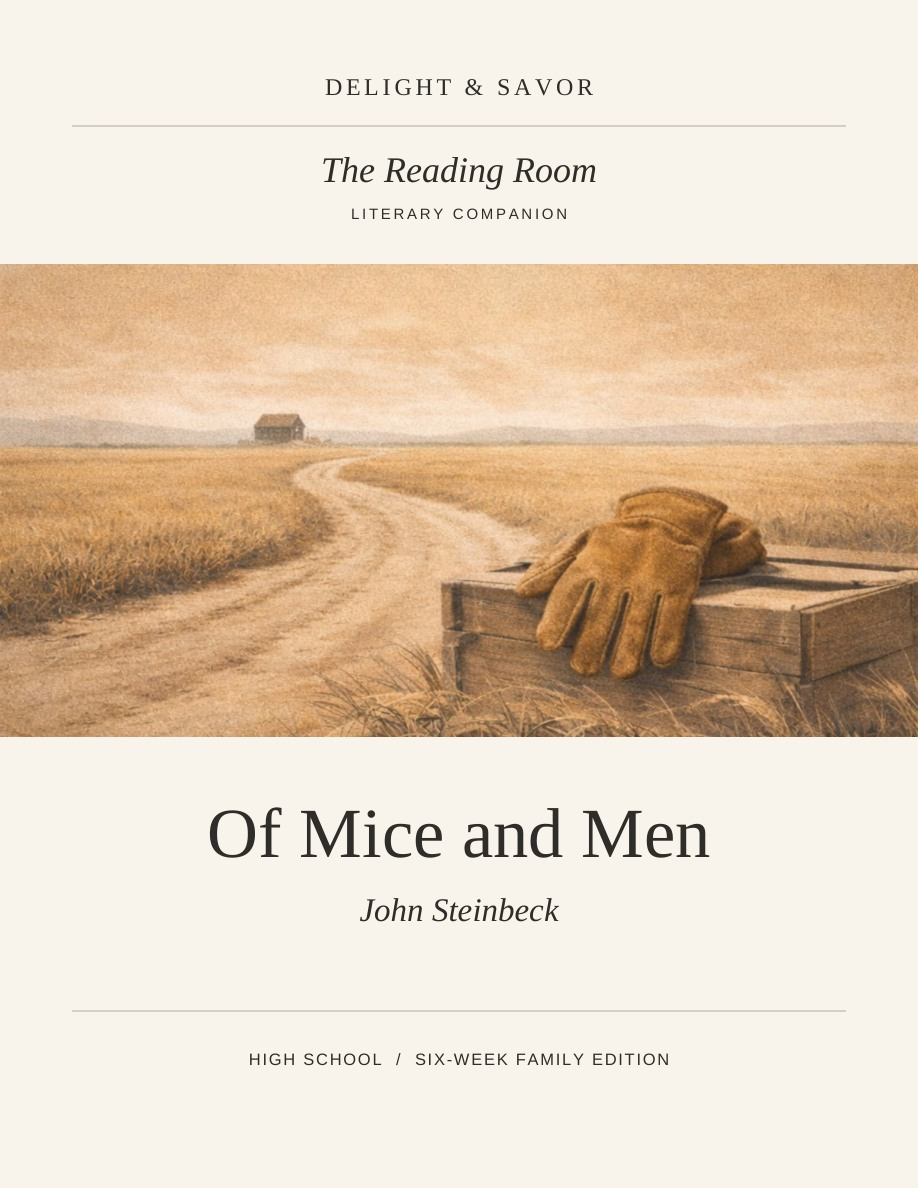
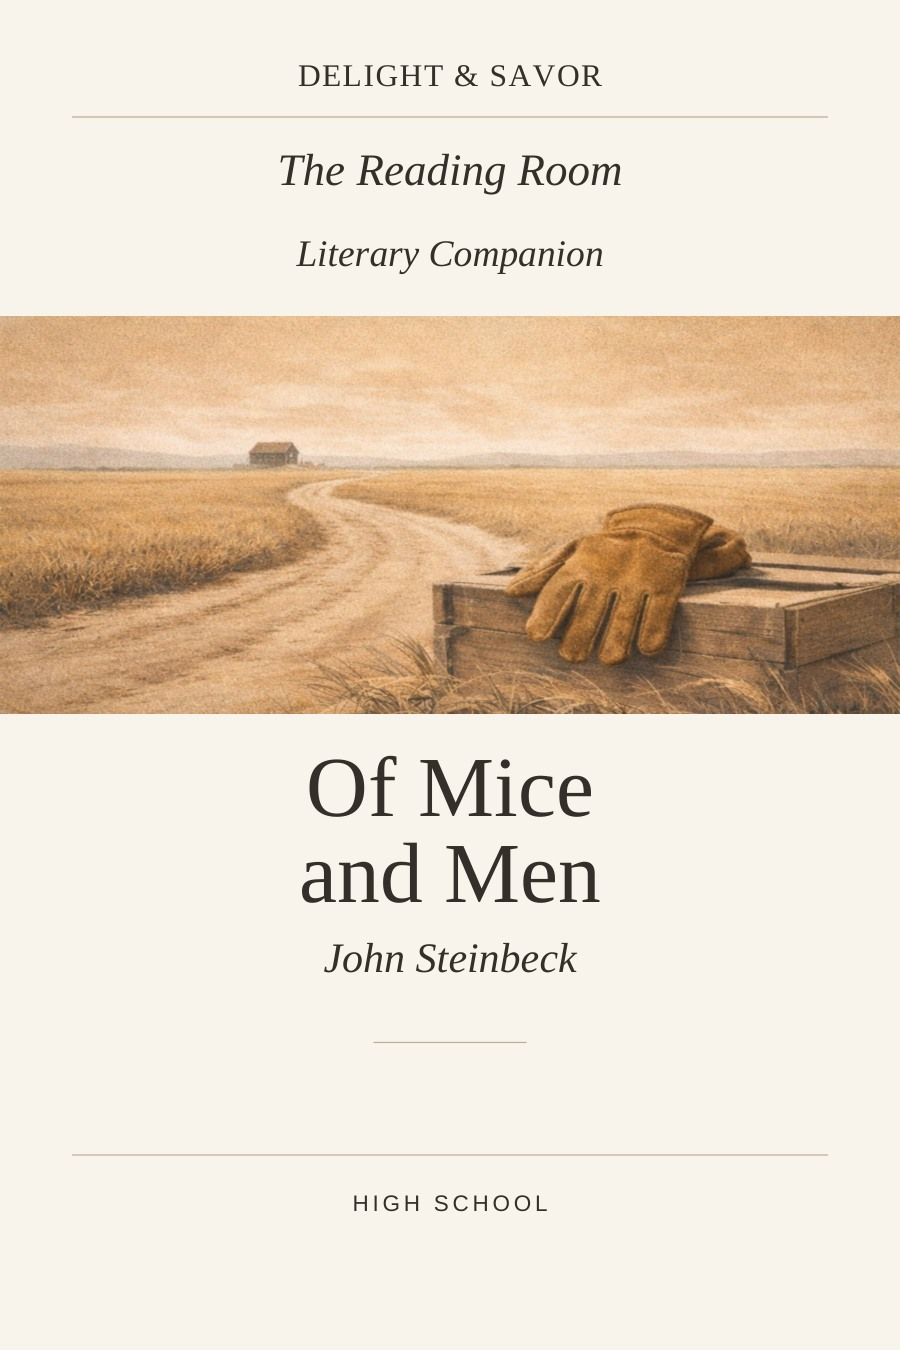
Match the companion shelf and make the online lesson benefits explicit

diff --git a/curriculum.html b/curriculum.html
@@ -26,7 +26,7 @@
 
   <div class="pathways wrap" id="ways-to-learn" role="navigation" aria-label="Four ways to use the curriculum">
     <a class="path path-primary" href="#membership">
-      <span class="path-name">Online membership</span><span class="path-copy">All my online courses in one family membership. Coming soon.</span><span class="path-arrow" aria-hidden="true">↓</span>
+      <span class="path-name">Online membership</span><span class="path-copy">All my online courses, with interactive lessons and teaching notes for parents. Coming soon.</span><span class="path-arrow" aria-hidden="true">↓</span>
     </a>
     <a class="path" href="#reading-room">
       <span class="path-name">Individual PDFs</span><span class="path-copy">Buy one book study to print and keep. $24 per companion.</span><span class="path-arrow" aria-hidden="true">↓</span>
@@ -42,8 +42,8 @@
   <section class="membership wrap" id="membership" aria-labelledby="membership-title">
     <div>
       <p class="kicker">Online family membership · Coming soon</p>
-      <h2 id="membership-title">Inside <i>In the Margin</i></h2>
-      <p>The membership will bring all my online courses together. Open the week’s reading with your child, switch to Teach View for a question to ask aloud, and keep a favorite line in a digital commonplace journal.</p>
+      <h2 id="membership-title">Your online Reading Room</h2>
+      <p>The family membership will bring all my online courses together in <i>In the Margin</i>. Open the week’s reading with your child, switch to Teach View for a question to ask aloud, and keep a favorite line in a digital commonplace journal.</p>
       <a class="action" href="https://margin.delightandsavor.com/preview.html#reading-room-title">Explore the online courses <span aria-hidden="true">→</span></a>
     </div>
     <aside class="lesson-peek" aria-labelledby="lesson-title">
@@ -89,7 +89,7 @@
         <a href="/shop#a-midsummer-nights-dream" aria-label="Buy the full PDF of A Midsummer Night’s Dream for $24">Full PDF · $24</a></div></div>
       </article>
       <article class="rr-book" id="of-mice-and-men">
-        <a class="rr-art" href="/samples/of-mice-and-men-week-one.pdf" aria-label="Preview the first week of Of Mice and Men"><img src="/images/of-mice-and-men-reading-room.jpg" alt="" loading="lazy" width="918" height="1188"></a>
+        <a class="rr-art" href="/samples/of-mice-and-men-week-one.pdf" aria-label="Preview the first week of Of Mice and Men"><img src="/images/of-mice-and-men-reading-room.jpg" alt="" loading="lazy" width="900" height="1350"></a>
         <div class="rr-info"><p class="rr-meta">Novel study · High school · 6 weeks</p><h3>Of Mice and Men</h3>
         <p class="rr-author">John Steinbeck</p><p class="rr-desc">Follow George and Lennie’s dream of a place of their own. How does its meaning change each time they tell the story?</p>
         <div class="rr-links"><a href="/samples/of-mice-and-men-week-one.pdf" aria-label="Free Week One PDF for Of Mice and Men">Free Week One PDF</a>

diff --git a/Shop.html b/Shop.html
@@ -92,7 +92,7 @@ h1,h2,h3{font-family:var(--display);font-weight:600;color:var(--ink);line-height
         <a href="https://payhip.com/b/qwchb" aria-label="Buy the full PDF of A Midsummer Night’s Dream for $24">Full PDF · $24</a></div></div>
       </article>
       <article class="rr-book" id="of-mice-and-men">
-        <a class="rr-art" href="/samples/of-mice-and-men-week-one.pdf" aria-label="Preview the first week of Of Mice and Men"><img src="/images/of-mice-and-men-reading-room.jpg" alt="" loading="lazy" width="918" height="1188"></a>
+        <a class="rr-art" href="/samples/of-mice-and-men-week-one.pdf" aria-label="Preview the first week of Of Mice and Men"><img src="/images/of-mice-and-men-reading-room.jpg" alt="" loading="lazy" width="900" height="1350"></a>
         <div class="rr-info"><p class="rr-meta">Novel study · High school · 6 weeks</p><h3 id="summer-co-op">Of Mice and Men</h3>
         <p class="rr-author">John Steinbeck</p><p class="rr-desc">Follow George and Lennie’s dream of a place of their own. How does its meaning change each time they tell the story?</p>
         <div class="rr-links"><a href="/samples/of-mice-and-men-week-one.pdf" aria-label="Free Week One PDF for Of Mice and Men">Free Week One PDF</a>

diff --git a/curriculum.css b/curriculum.css
@@ -91,7 +91,7 @@ body {
 .lesson-peek { border-left: 2px solid var(--ds-ochre); padding: 4px 0 4px clamp(18px, 2.8vw, 38px); }
 .lesson-peek h3 + p { margin: .55rem 0 .2rem; }
 .paper-band { background: var(--ds-paper); border-block: 1px solid var(--ds-rule); }
-.curriculum .rr-shelf { padding-block: clamp(40px, 5vw, 66px); }
+.curriculum .rr-shelf { max-width: 1260px; padding-block: clamp(40px, 5vw, 66px); }
 .curriculum .rr-grid { grid-template-columns: repeat(5, minmax(0, 1fr)); gap: clamp(16px, 2vw, 28px); margin: 32px 0 0; }
 .curriculum .rr-book { display: flex; flex-direction: column; border: 0; gap: 14px; padding: 0; min-width: 0; }
 .curriculum .rr-art, .year-cover { display: block; }
@@ -157,4 +157,3 @@ body {
   .curriculum .rr-desc { font-size: 17px; }
   .week__list { grid-template-columns: 1fr; }
 }
-@media (prefers-reduced-motion: no-preference) { html { scroll-behavior: smooth; } }
